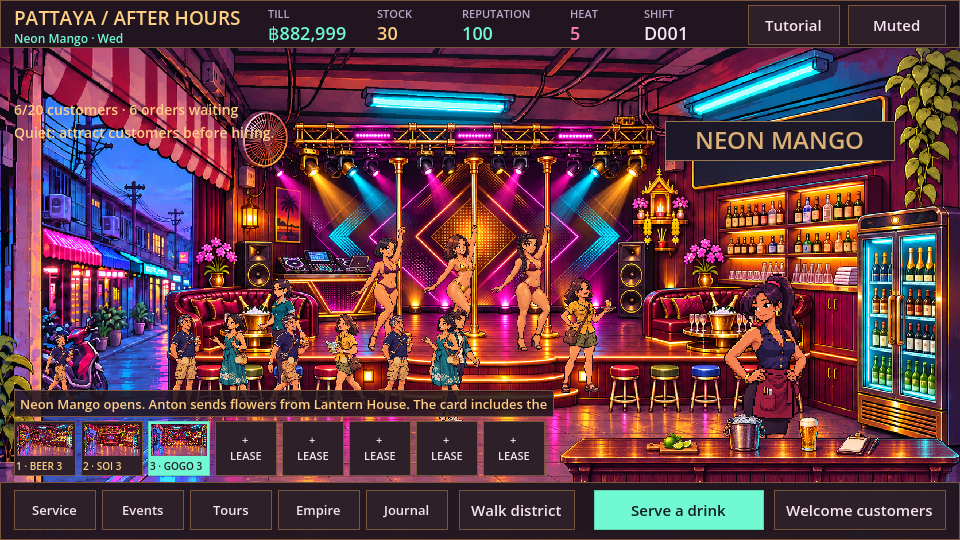
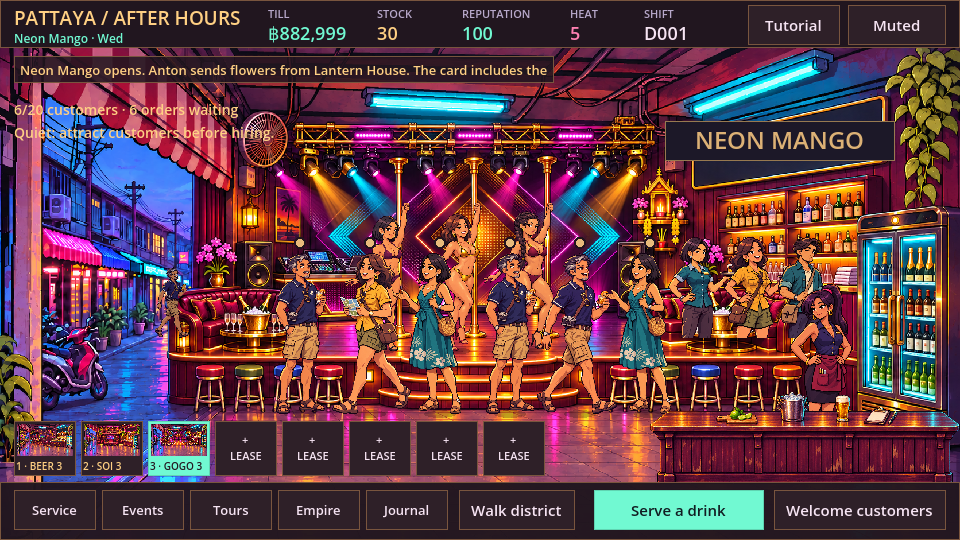
Fix bar scene perspective, character placement and floor visibility

Changed region(s): [[0.0, 0.3852, 1.0, 0.9185], [0.0, 0.0889, 0.5938, 0.1778]]

diff --git a/docs/TESTING.md b/docs/TESTING.md
@@ -51,6 +51,9 @@ packing instructions are in [art/README.md](../art/README.md).
 
 Review these behaviours, not just whether a PNG exists:
 
+- Use `empty-*`, `full-*` and `closed-*` general-preview filters for all three
+  venue types, including the 24-customer maximum. Check character proportions,
+  visible feet, counter/table occlusion and a clear outside lane.
 - Empty venues look empty, waiting-order markers match customers, and closed or
   off-duty staff do not appear to be working.
 - Beer-bar pool states distinguish paid, free, idle and not-open facilities.
@@ -113,3 +116,16 @@ and header-layout checks. Linux, Windows and macOS packages exported successfull
 and the Linux startup smoke test passed. The exact inputs and maintainer notes
 are recorded in [MERGE_HANDOFF.md](MERGE_HANDOFF.md). Windows update execution and
 rollback still require Windows testing.
+
+## Bar-scene perspective correction — 25 November 2026
+
+The scene uses one depth-based scale for interior adults, counter occlusion for
+bartenders, indoor customer/table positions, and overhead order markers. The
+message strip no longer covers the floor. Production textures are unchanged.
+
+Verified with Godot 4.7.2: `tools/test.sh` (including all nine pacing campaigns),
+65 general captures, the complete economy preview, and six wider-window views.
+The added scene checks cover real occupancy/orders, available staff, closure,
+read-only rendering, floor bounds and surviving pool-table identity. Visual review
+included all nine stages, empty/full rooms, inspection and other event treatments,
+management drawers and pool states. Device playtesting remains outstanding.

diff --git a/art/README.md b/art/README.md
@@ -61,7 +61,14 @@ prompt is not deterministic; packing the committed sources is deterministic.
 `scripts/art.gd` owns texture lookup, venue stages, identities, semantic animation
 states, atlas bounds and event identifiers. City staff availability comes from
 the existing campaign state. Gogo stages use one, two or three pole positions;
-remaining hosts work the floor. The foreground counter occludes Anong's legs.
+remaining hosts work the floor. Interior adults share a floor-depth scale, including Anong and the inspector.
+The foreground counter occludes Anong's legs; crops of the original venue plate
+occlude bartenders behind the illustrated counters. Customers and pool tables
+are drawn in floor-depth order, with waiting-order dots above customer heads.
+Both pool tables stay indoors. Street traffic follows the visible outside lane;
+the furnished beer-bar terrace does not receive a passerby sprite. Event effects
+do not add an indoor decorative crowd. The message strip sits above the room,
+leaving customers' feet clear of the property selector.
 
 Fight simulation coordinates and attack durations remain unchanged. Presentation
 maps the simulation into the 960 × 540 scene, selecting anticipation, contact and

diff --git a/docs/PLAYER_GUIDE.md b/docs/PLAYER_GUIDE.md
@@ -6,7 +6,7 @@ campaign using the original decision lessons; it does not spend your real till.
 
 ## Your first shift
 
-1. Serve the three opening customers. A gold dot marks an order. Each successful
+1. Serve the three opening customers. A gold dot above a customer marks an order. Each successful
    click sells one drink and consumes one unit of stock.
 2. When no orders are waiting, welcome passersby. Welcoming has a cooldown and a
    capped effect; it cannot create an unlimited crowd.
@@ -21,6 +21,11 @@ campaign using the original decision lessons; it does not spend your real till.
 The first useful purchase depends on the bar: frontage helps quiet trade,
 seating helps a full room, and a bartender helps unattended orders. More service
 capacity cannot sell drinks to customers who are not there.
+
+Customers appear inside the doorway, in front of the furniture and service
+counters; bartenders work behind the counters. Smaller passersby stay in the
+street opening and do not count toward occupancy. Pool players stay beside
+their assigned table, with its paid/free timer on the table front.
 
 ## Read the bottleneck
 

diff --git a/CHANGELOG.md b/CHANGELOG.md
@@ -4,6 +4,16 @@ These entries describe source development, not published release versions.
 Save-schema versions are not application release numbers. The current source's
 player-facing overview is in [README.md](README.md).
 
+## 25 November 2026 — Bar-scene perspective and layout
+
+- Unified interior character scale, reduced Anong's foreground size, and placed
+  bartenders behind the illustrated counters instead of on stools.
+- Kept customers and both pool tables inside, placed passersby in the outside
+  lane, and removed event crowds that did not represent actual customers.
+- Sorted people and tables by depth, raised order dots above heads, and moved
+  messages away from customers' feet. Kept existing production artwork.
+- Added full/empty/closed visual fixtures and scene regression checks.
+
 ## Unreleased — Branch consolidation
 
 - Combined the progression and customer-economy histories with current upstream

diff --git a/README.md b/README.md
@@ -24,6 +24,11 @@ Tap **Serve a drink** for a waiting order; use **Welcome customers** when quiet.
 No order means no sale. Open **Service** to see demand, service speed, occupancy,
 stock, payroll and recent actual profit.
 
+Inside the scene, customers stand on the public side of the bar, bartenders
+work behind the counters, and gold dots above customers mark waiting orders.
+The smaller passerby in the left street opening is background traffic, not an
+extra customer. Messages sit above the room so the floor remains visible.
+
 Save for signage, seating, a bartender and a pool table. Pool is available at
 beer-bar stage 1: **฿50 per table per 45-second game**, charged once. Free Pool
 Night attracts visitors but gives up pool fees; Happy Hour, Pool Tournament and
